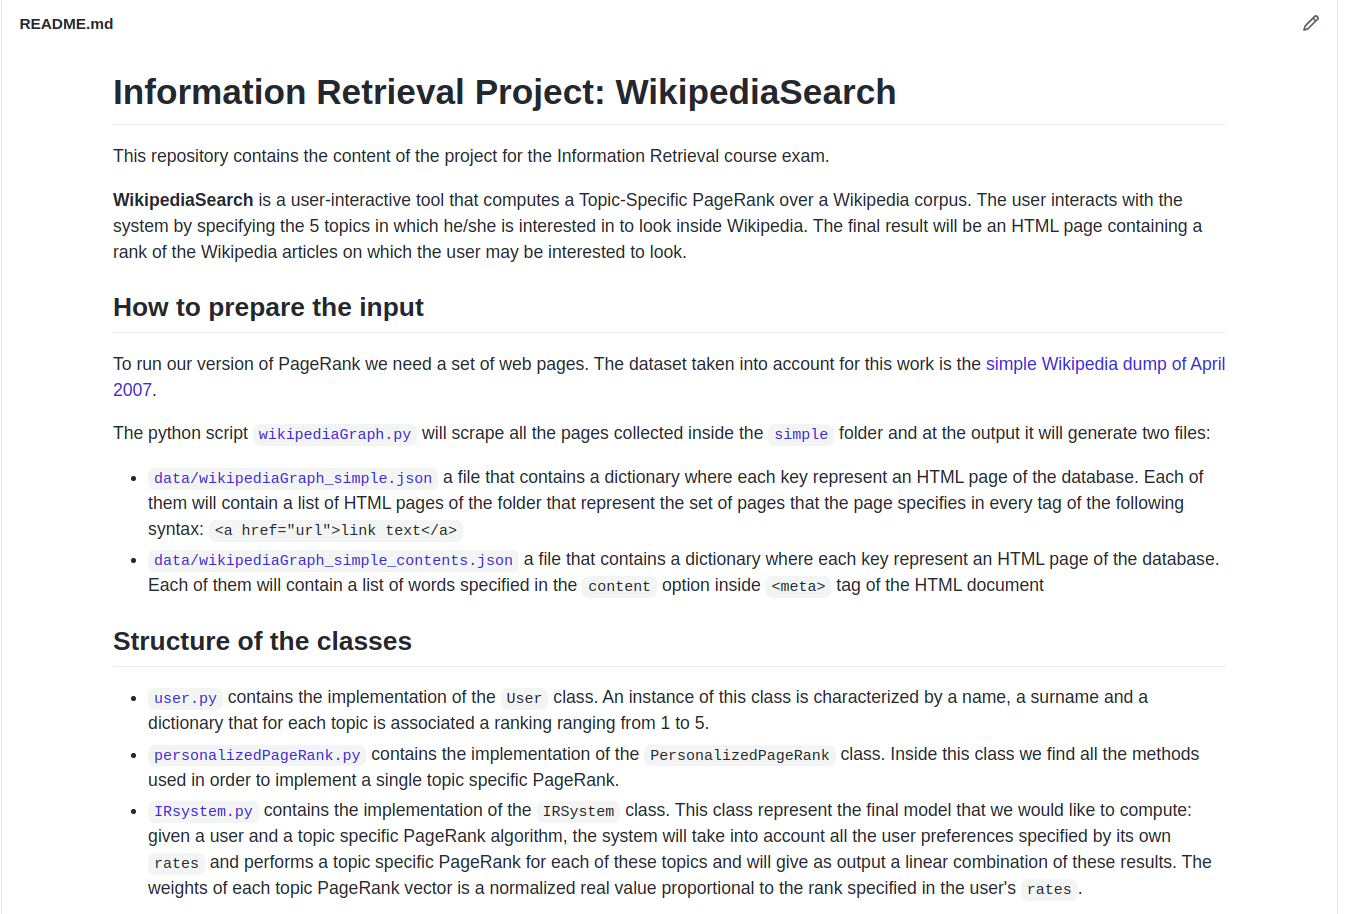
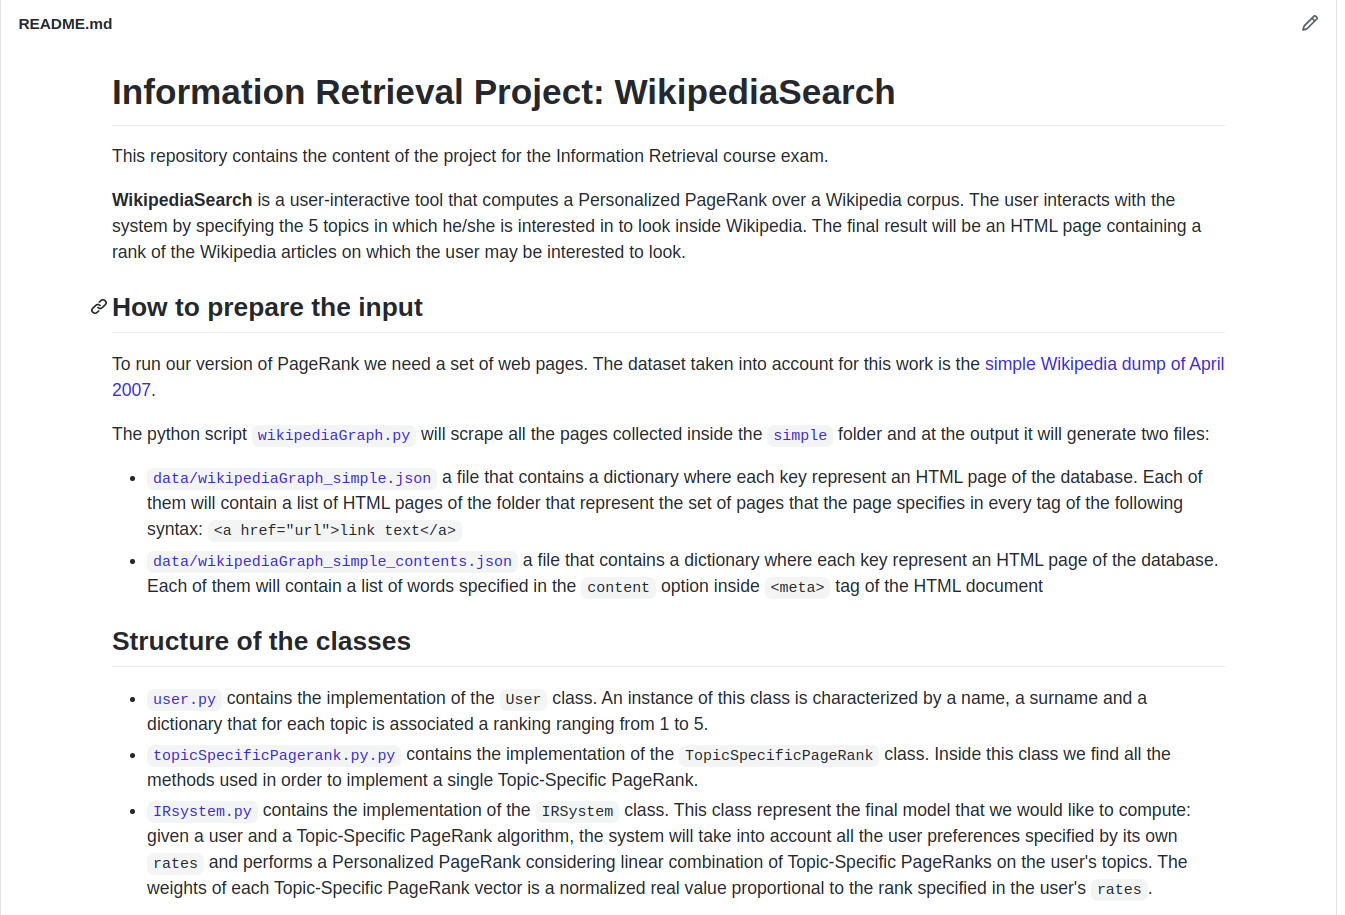
change names and some photos

diff --git a/index.html b/index.html
@@ -22,7 +22,7 @@
         <section class="bg-apple aligncenter">
             <h1><strong> <b> WikipediaSearch </b></strong></h1>
             <p class="text-subtitle aligncenter">
-                An application of Topic Specific PageRank on a Wikipedia subset
+                An application of Personalized PageRank on a Wikipedia subset
             </p>
             <p class="text-subtitle aligncenter">
               Roberto Corti
@@ -47,7 +47,7 @@
                 <div class="content-left">
                     <h2> <b> What is WikipediaSearch? </b> </h2>
                     <div class="text-subtitle">A Wikipedia search engine</div>
-                    <p class="text-intro">WikipediaSearch is a command line user-interactive tool that computes a Topic Specific PageRank over a Wikipedia corpus.</p>
+                    <p class="text-intro">WikipediaSearch is a command line user-interactive tool that computes a Personalized PageRank over a Wikipedia corpus.</p>
                     <p class="text-intro">Considering a set of user rankings on five specific topics, WikipediaSearch performs a ranking of the Wikipedia articles based on the user's preferences.</p>
                 </div>
                 
@@ -83,15 +83,15 @@
         <section class="bg-apple">
             <div class="wrap">
                 <div class="content-left">
-                  <h2> <b> 2. Topic Specific PageRank </b></h2>
-                  <div class="text-subtitle">Linear combination of PageRank vectors</div>
+                  <h2> <b> 2. Personalized PageRank </b></h2>
+                  <div class="text-subtitle">Linear combination of Topic Specific PageRanks</div>
                     <p class="text-intro" >Given the 5 topics selected by the user, each one of them is assigned to a normalized weight proportional to the 5-star rank. <br> <br> 
                       A topic-specific PageRank is evaluated for each topic.</p> 
                     <p class="text-intro">The final rank is a linear combination of the topic specific Pagerank vectors using the user's weights.</p>
                 </div>
                 <div class="content-right">
-                  <br>
-                  <img src="img/pagerank.png"  class="aligncentera" width="700" height="800">
+                  
+                  <img src="img/pagerank.png"  class="aligncenter" width="680" height="800">
                 </div>      
               </div>
         </section>
@@ -129,11 +129,11 @@
                   </a>
                 </li>
                 <li>
-                  <a href="https://github.com/RobertoCorti/Information-Retrieval-and-Data-Visualization/blob/main/InformationRetrieval/Project/personalizedPagerank.py" title="personalizedPageRank">
+                  <a href="https://github.com/RobertoCorti/Information-Retrieval-and-Data-Visualization/blob/main/InformationRetrieval/Project/topicSpecificPagerank.py" title="topic-specific PageRank">
                     <figure>
-                      <img alt="Thumbnail" src="img/personalizedPageRank.png">
+                      <img alt="Thumbnail" src="img/topicSpecificPageRank.png">
                       <figcaption>
-                        <h2>personalized PageRank class implementation</h2>
+                        <h2>topic-specific PageRank class implementation</h2>
                       </figcaption>
                     </figure>
                   </a>
@@ -167,7 +167,7 @@
         <section class="bg-apple slide-top">
             <div class="wrap">
                 
-                <h2> <b> Building the Wikipedia pages graph </b></h2>
+                <h2> <b> Building the Wikipedia graph </b></h2>
                 <p class="text-subtitle">How to get a graph for PageRank</p>
                  
                 <div class="text-intro">
@@ -191,7 +191,7 @@
         <section class="bg-apple">
           <div class="wrap">
             <div class="content-center">
-              <p><font size="+3">To get these two graphs, some <b>preprocessing steps</b> are required.</p></font>
+              <p><font size="+3">To get the Wikipedia graph <br> some <b>preprocessing steps</b> are required.</p></font>
             </div>
           </div>
         </section>
@@ -244,22 +244,22 @@
         <section class="bg-apple">
           <div class="wrap">
               
-              <h2> <b> Personalized PageRank class implementation </b></h2>
-              <p class="text-subtitle">The algorithm class</p>
+              <h2> <b> Topic-Specific PageRank class implementation </b></h2>
+              <p class="text-subtitle">The algorithm</p>
               
               <div class=" text-intro content-left">
                 <br>
-                The python script <a href="https://github.com/RobertoCorti/Information-Retrieval-and-Data-Visualization/blob/main/InformationRetrieval/Project/personalizedPagerank.py"> personalizedPagerank.py</a>
+                The python script <a href="https://github.com/RobertoCorti/Information-Retrieval-and-Data-Visualization/blob/main/InformationRetrieval/Project/topicSpecificPagerank.py"> topicSpecificPagerank.py</a>
                  contains the implementation of a class used for computing the topic-specific PageRank algorithm.
                  <br> <br>
-                The initialization of a <code>personalizedPageRank</code> object will require the two graph's <code>.json</code> files.
+                The initialization of a <code>TopicSpecificPageRank</code> object will require the two  <code>.json</code> files.
                 <br> <br> 
                 <code>generate_graph()</code> and <code>generate_contents()</code> will read them and generate two python dictionaries. 
                 <br><br>
                 <code>generate_stochastic_matrix()</code> will compute the stochastic matrix of the page's graph.
               </div>
               <div class="content-right">
-                <img src="img/initPersonalizedPageRank.png">
+                <img src="img/initTopicSpecificPageRank.png">
               </div>
           </div>    
         </section>
@@ -287,7 +287,7 @@
         <section class="bg-apple">
           <div class="wrap">
             <div class="content-left text-intro">
-              <code>compute_PersonalizedPageRank</code>  will provide the computation of topic-specific Page Rank.
+              <code>compute_TopicSpecificPageRank</code>  will provide the computation of Topic-Specific Page Rank.
               <br> <br> 
               Three parameters:
               <ul>
@@ -303,7 +303,7 @@
     
             </div>
             <div class="content-right text-intro">
-              For a given <code>topic</code> the Personalized PageRank will need a a topic-specific jump vector. <br> <br>
+              For a given <code>topic</code> this kind of PageRank will need a topic-specific jump vector. <br> <br>
               <img src="img/generate_seed.png">
             </div>
           </div>
